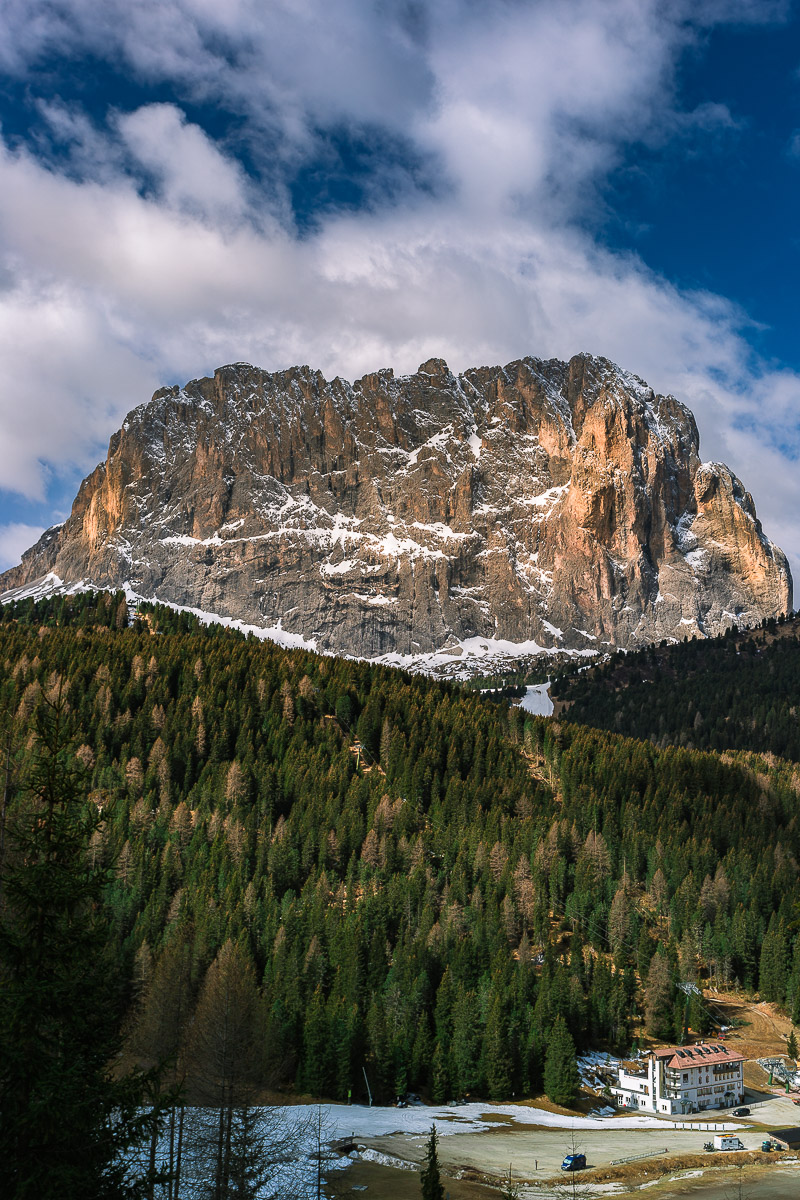
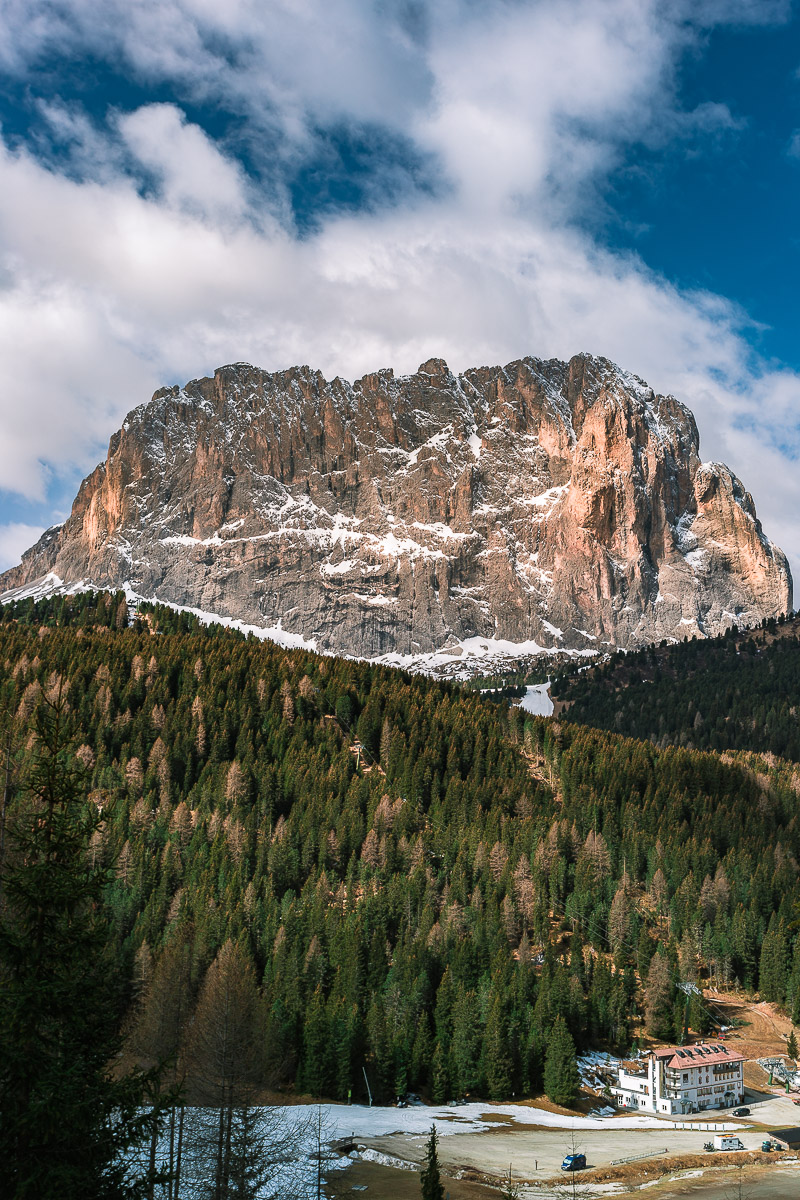
UPDATE: Guardian picture description.

diff --git a/shutterbug/blog/_posts/2017-06-21-dolomites-photography-sunrise-langkofel.md b/shutterbug/blog/_posts/2017-06-21-dolomites-photography-sunrise-langkofel.md
@@ -66,7 +66,7 @@ Second picture from the same spot was using the bigger stopper, again to show of
 
 In my eyes, the sky was too clear and lacked a bit of interest. Let's leave that one for the next time, I told myself.
 
-In order to walk away with a bonus, on my way back as the day before, I pulled off my car and took almost the same kind of picture only with a different mountain.
+In order to walk away with a bonus, on my way back as the day before, I pulled off my car and took almost the same kind of picture only with a different mountain. This is the typical scene in the area: the massif mountain backed village.
 
 {% include photo.html title='The Guardian II' %}
 

diff --git a/_photos/dolomites/2017-04-16-the-guardian-i.md b/_photos/dolomites/2017-04-16-the-guardian-i.md
@@ -10,6 +10,6 @@ filters:
 
 Langkofel massif view from the side.
 
-I pulled off my car for this lovely colored shot. The bulk massif was a guard for the tiny humanity hidden behind the trees.
+On my way back from Langkofel, I pulled off my car for this lovely colored shot. The bulk massif was a guard for the tiny humanity hidden behind the trees.
 
 [Read more](<{% link shutterbug/blog/_posts/2017-06-21-dolomites-photography-sunrise-langkofel.md %}>) about this shot.

diff --git a/_photos/dolomites/2017-04-17-the-guardian-ii.md b/_photos/dolomites/2017-04-17-the-guardian-ii.md
@@ -11,6 +11,6 @@ filters:
 
 A massif view from the distance.
 
-I pulled off my car for this lovely colored shot. The bulk massif was a guard for the tiny humanity hidden behind the trees.
+This is the typical scene in the area: the massif mountain backed village.
 
 [Read more](<{% link shutterbug/blog/_posts/2017-06-21-dolomites-photography-sunrise-langkofel.md %}>) about this shot.
